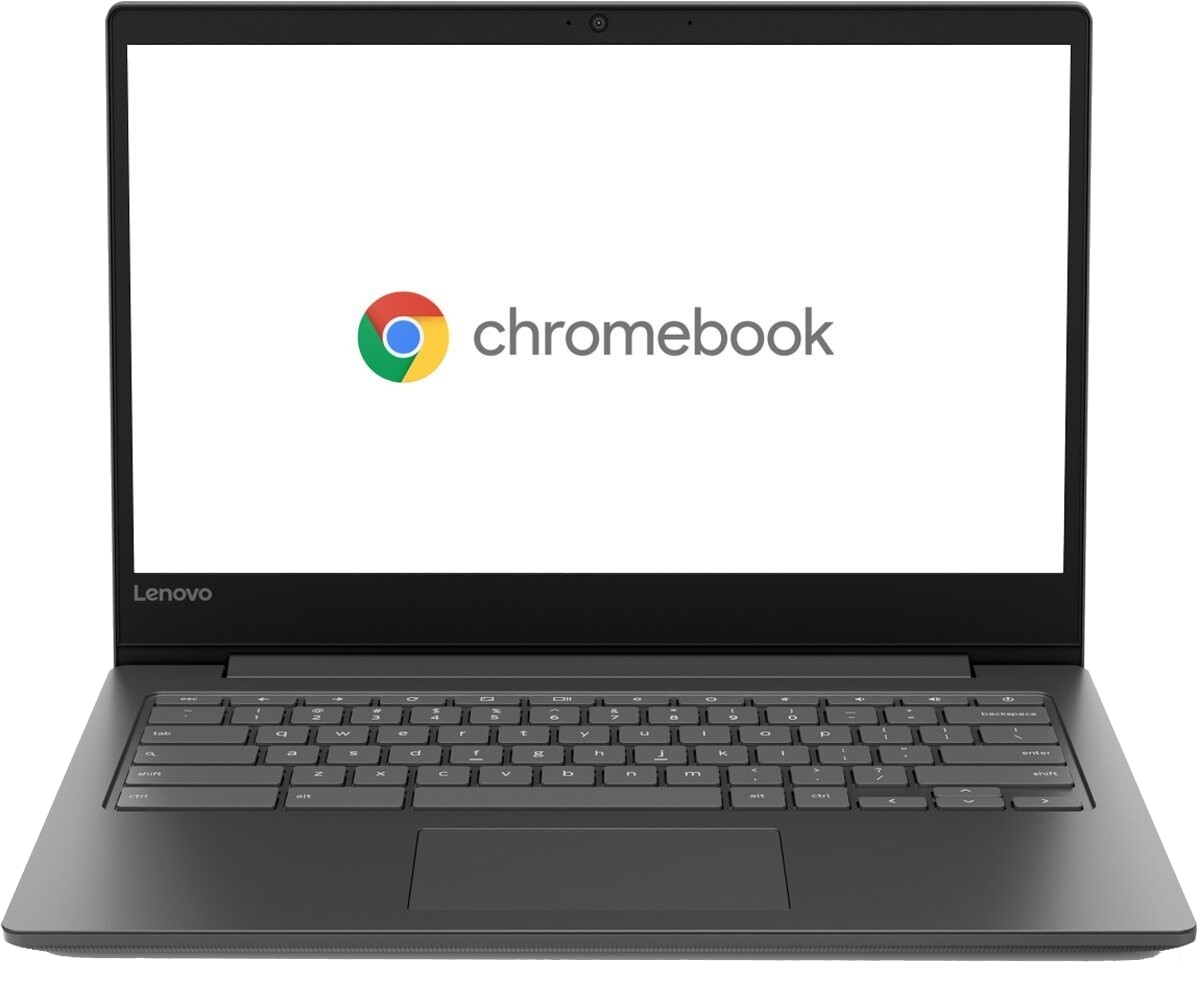
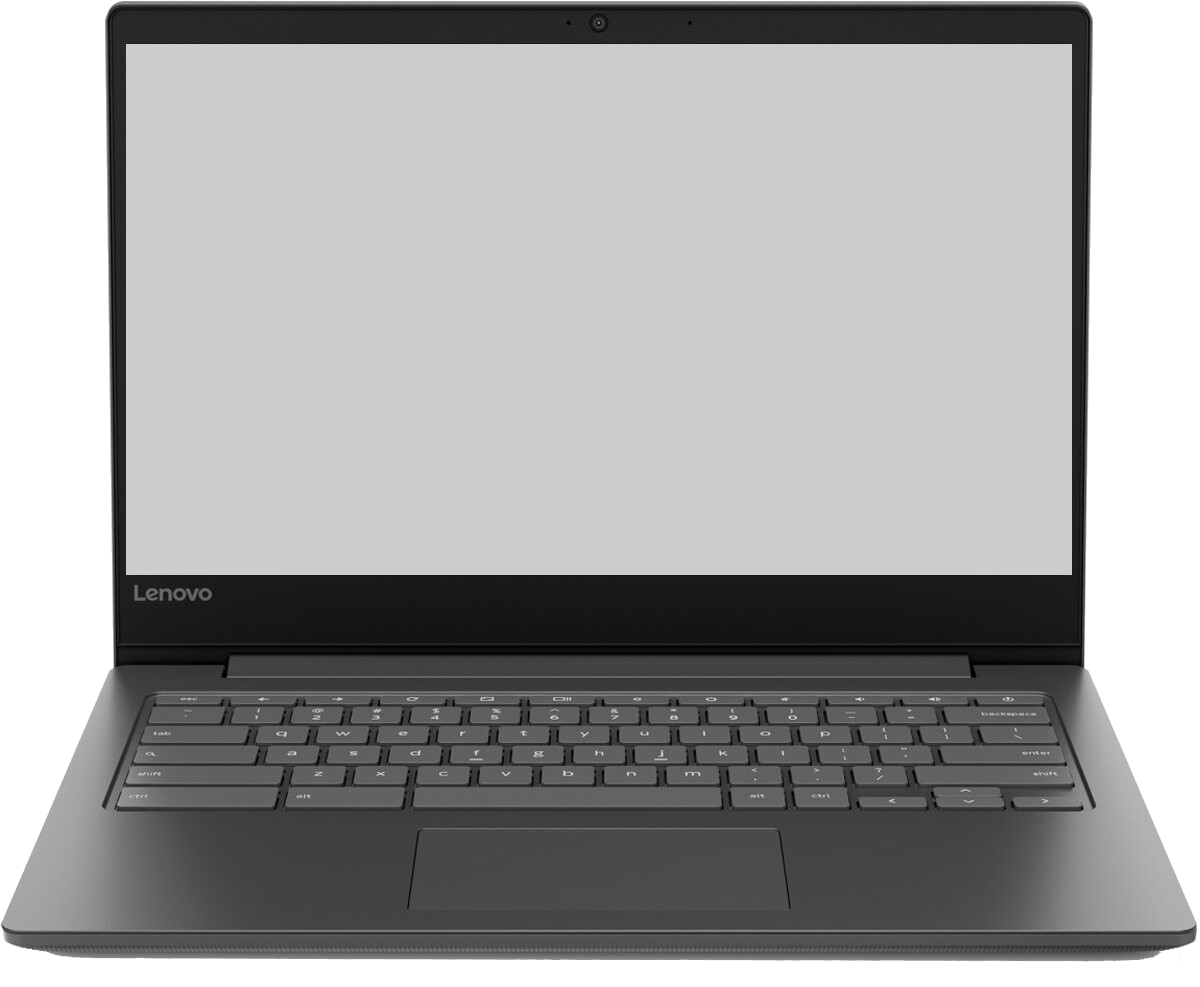
New login window

diff --git a/public/cbpool.js b/public/cbpool.js
@@ -240,6 +240,12 @@ frame.on("ready", function () {
 
 }); // end of ready
 
+const LoginState = {
+    NOT_TRIED: 1,
+    FAILED: 2,
+    SUCCESS: 3
+};
+
 class UI {
     constructor(app, frame, config) {
         this.app = app;
@@ -252,6 +258,8 @@ class UI {
         this.slotWindow = createSlotWindow(this.app, this.frame);
         this.slotWindow.window.hide();
         this.frame.stage.update();
+        this.lastLoginState = LoginState.NOT_TRIED;
+        this.lastLoginEmail = "";
     }
     syncSlot(slotSnapshot) {
         let day = this.app.chosenSlot.day;
@@ -279,6 +287,7 @@ class UI {
         }
         else {
             this.loginWindow.window.show();
+            this.updateLoginWindow();
             this.closeMainWindow();
         }
         this.frame.stage.update();
@@ -304,10 +313,46 @@ class UI {
         this.mainWindow.user.text = "";
         this.frame.stage.update();
     }
-    showLoginFailed(email) {
-        this.loginWindow.tip.text = `Lo siento: ${email} no tiene acceso a la aplicación.\nContacta con mperez@fomento.edu`;
-        this.loginWindow.tip.label.color = red;
-        this.frame.stage.update();
+    loginSuccess(email) {
+        this.lastLoginState = LoginState.SUCCESS;
+        this.lastLoginEmail = email;
+    }
+    loginFailed(email) {
+        this.lastLoginState = LoginState.FAILED;
+        this.lastLoginEmail = email;
+    }
+    resetLoginState() {
+        this.lastLoginState = LoginState.NOT_TRIED;
+        this.lastLoginEmail = "";
+    }
+    updateLoginWindow() {
+        this.loginWindow.tip.text = loginMessage(this.lastLoginState, this.lastLoginEmail);
+        this.loginWindow.tip.color = loginMessageColor(this.lastLoginState);
+    }
+    // showLoginFailed(email) {
+    //     this.loginWindow.tip.dispose();
+    //     this.loginWindow.tip = createUnauthorizedTip(this.loginWindow.window, email);
+    //     this.frame.stage.update();
+    // }
+}
+
+function loginMessageColor(loginState) {
+    switch (loginState) {
+        case LoginState.FAILED:
+            return red;
+        default:
+            return dark;
+    }
+}
+
+function loginMessage(loginState, loginEmail) {
+    switch (loginState) {
+        case LoginState.NOT_TRIED:
+            return "Pulsa en LOGIN para empezar";
+        case LoginState.SUCCESS:
+            return `Hasta la próxima, ${loginEmail}`;
+        case LoginState.FAILED:
+            return `Usuario no autorizado: ${loginEmail}`;
     }
 }
 
@@ -319,44 +364,32 @@ function createLoginWindow(app, frame) {
         modal: false,
         backdropClose: false,
         displayClose: false
-    }).addTo(frame.stage).center();
-
-    let chromebook = asset("chromebook.png");
-    chromebook.addTo(loginWindow).centerReg().center().mov(0, -50);
-    chromebook.sca(0.8);
+    }).addTo(frame.stage).centerReg().center();
 
     let loginButton = new Button({
-        label: new Label({ text: "LOGIN", size: 220, bold: true, align: "center", color: dark }),
-        width: 755,
-        height: 435,
-        backgroundColor: light,
+        label: new Label({ text: "LOGIN", size: 220, bold: true, align: "center", color: light, rollColor: dark }),
+        width: frame.width * 0.5,
+        height: frame.height * 0.5,
+        backgroundColor: dark,
         rollBackgroundColor: orange,
         corner: 5
-    }).addTo(loginWindow).loc(-380, -370).mov(0, -50);
+    }).addTo(loginWindow).centerReg().center().mov(0, -100);
 
     loginButton.on("click", () => {
-        loginTip.text = "Bienvenido al servicio de reserva de Chromebooks.\nPulsa en LOGIN para empezar.";
-        loginTip.color = dark;
         app.login();
     });
-    
-    let loginTip = new Label({
-        text: "Bienvenido al servicio de reserva de Chromebooks.\nPulsa en LOGIN para empezar.",
-        align: "center",
-        color: dark,
-        size: 50
-    });
 
-    loginTip.addTo(loginWindow).pos({y: 50, vertical: BOTTOM});
-    
-    // let sidebar = pizzazz.makePattern({
-    //     type: "stripes",
-    //     cols: 120,
-    //     colors: series("rgba(253,0,5,0.7)", "rgba(204,153,51,0.7)", "rgba(0,105,61,0.7)"),
-    //     interval: 0.3
-    // }).addTo(loginWindow).rot(90).pos({x:0, horizontal: LEFT});
-    
-    return {window: loginWindow, tip: loginTip};
+    let loginTip = new Label({
+        text: loginMessage(LoginState.NOT_TRIED, ""),
+        align: "center",
+        color: loginMessageColor(LoginState.NOT_TRIED),
+        size: 50,
+        font: "courier",
+        bold: true
+    });
+    loginTip.addTo(loginWindow).pos({ x: 0, horizontal: CENTER, y: 200, vertical: BOTTOM });
+
+    return { window: loginWindow, tip: loginTip };
 }
 
 function createMainWindow(app, frame, uiConfig) {
@@ -421,8 +454,6 @@ function createMainWindow(app, frame, uiConfig) {
         backgroundColor: dark,
         rollBackgroundColor: orange,
         corner: 0,
-        // label: "",
-        // icon: pizzazz.makeIcon("home", light)
     });
     todayButton.on("click", () => app.gotoToday());
 
@@ -567,17 +598,6 @@ function createNameList(app, id, reserve, entry) {
         nameList = null;
     });
 }
-
-// function showReserveTip(target) {
-//     let addReserveTip = new Tip({
-//         text: "Selecciona tu nombre en la lista, y\nmodifica el número de Chromebook que quieres reservar.",
-//         outside: true,
-//         target: target,
-//         valign: "top",
-//         align: "right"
-//     });
-//     addReserveTip.show(0, 4);
-// }
 
 function createSlotWindow(app, frame) {
     let slotEditWindow = new Pane({
@@ -724,10 +744,11 @@ class NotLoggedIn extends State {
                 if (credentials.user) {
                     if (this.app.userHasAccess(credentials.user)) {
                         console.log(`Logged in as ${credentials.user.email}`);
+                        this.app.ui.loginSuccess(this.app.user.email);
                         this.app.state = new ChooseSlot(this.app);
                     }
                     else {
-                        this.app.ui.showLoginFailed(credentials.user.email);
+                        this.app.ui.loginFailed(this.app.user.email);
                         this.app.authBackend.signOut();
                         this.app.user = null;
                     }
